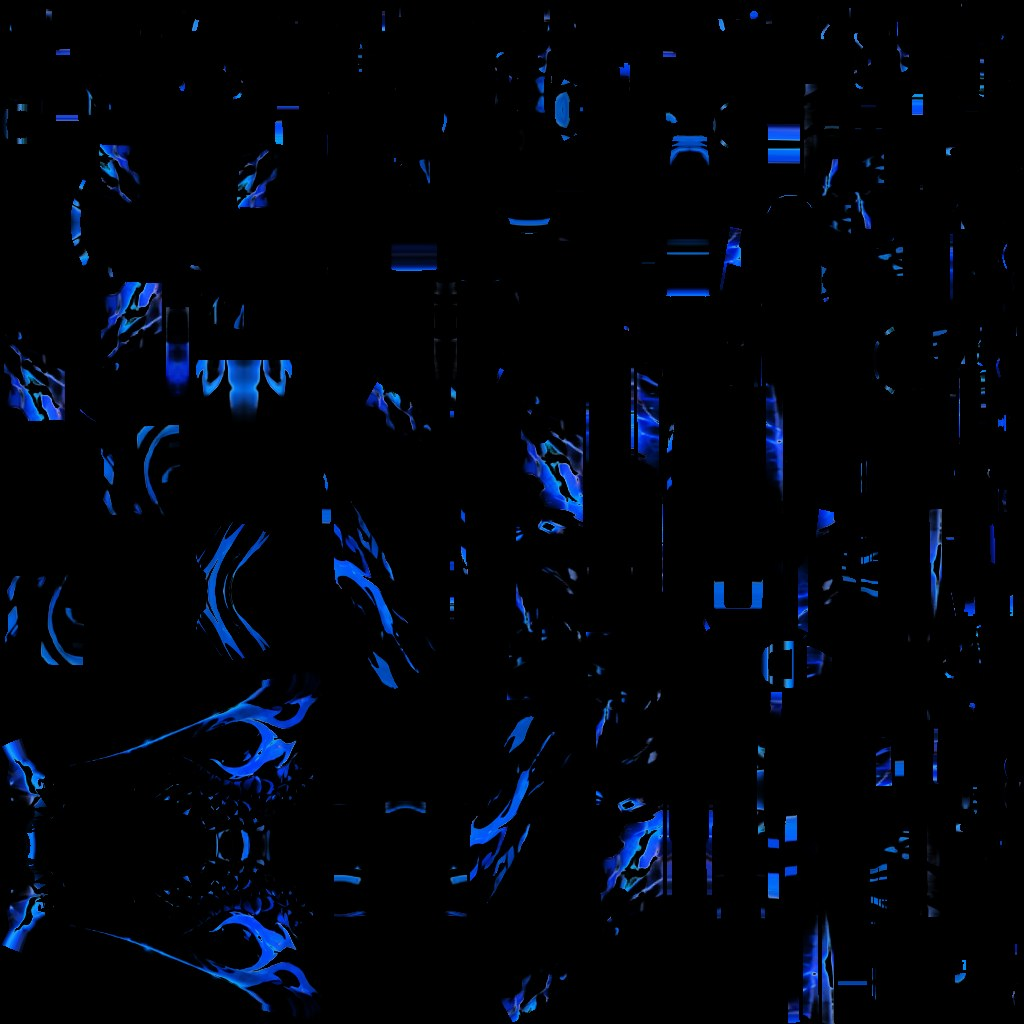
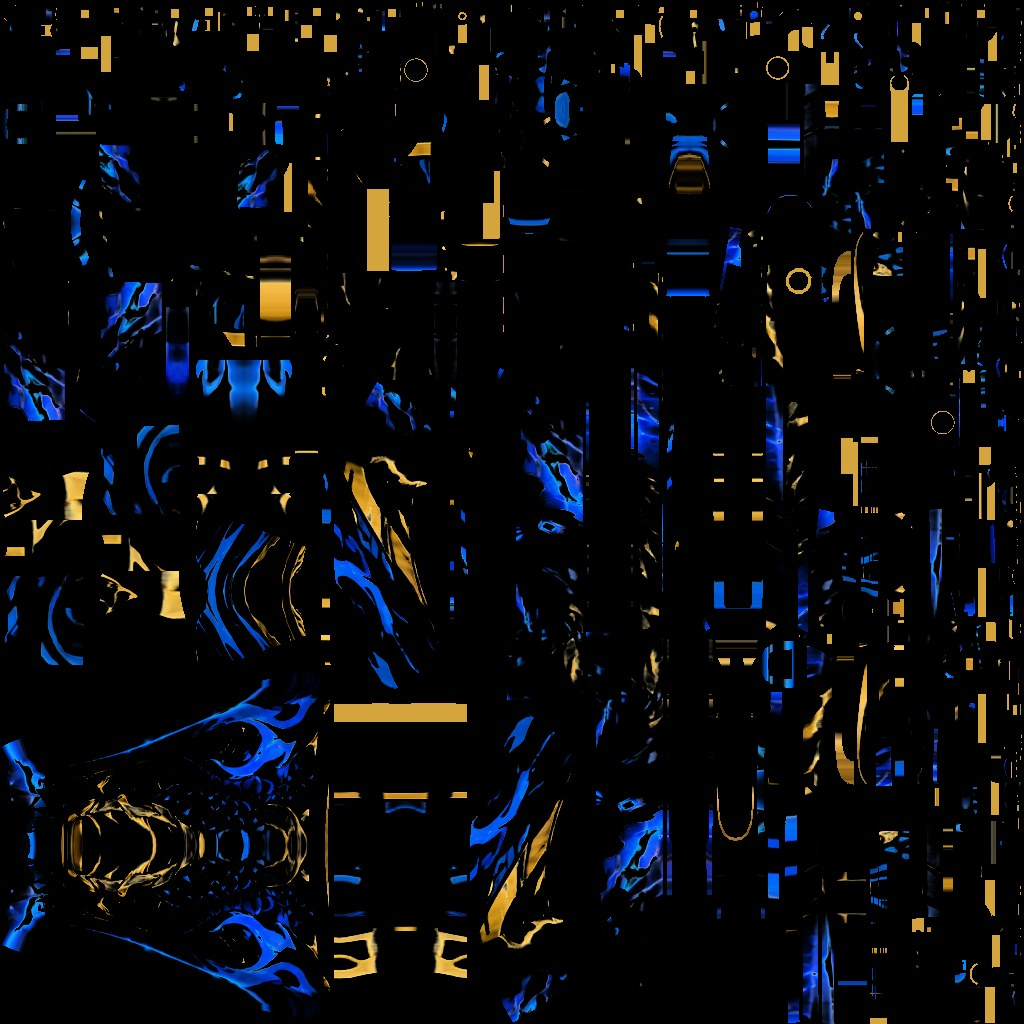
AK-47 Dragão Azul sem os raios; o dourado da pintura também brilha (mapa emissivo azul + dourado)
Claude-Session: https://claude.ai/code/session_012EZ5KKTFERXFdQTAkopxx1

diff --git a/tools/projetar_skin_arma.py b/tools/projetar_skin_arma.py
@@ -129,12 +129,21 @@ def main():
         def suave(a, b, x):
             k = np.clip((x - a) / (b - a), 0, 1)
             return k * k * (3 - 2 * k)
-        # o que acende: a cor forte da pintura ("cor": "azul" ou "vermelho"; o dourado não entra)
-        ch = {'vermelho': 0, 'verde': 1, 'azul': 2}[brilho.get('cor', 'azul')]
-        outros = [k for k in range(3) if k != ch]
-        azul = out[..., ch] - np.maximum(out[..., outros[0]], out[..., outros[1]])
+        # o que acende: as cores fortes da pintura ("cor": "azul", "vermelho" ou uma lista, ex.: ["azul", "dourado"])
+        cores = brilho.get('cor', 'azul')
+        cores = [cores] if isinstance(cores, str) else cores
         am = brilho.get('azul_min', 35)
-        mask = suave(am, am + 60, azul) * suave(70, 170, out[..., ch])
+        mask = np.zeros(out.shape[:2])
+        for nome in cores:
+            if nome == 'dourado':  # vermelho e verde altos, azul baixo
+                forca = np.minimum(out[..., 0], out[..., 1]) - out[..., 2]
+                m = suave(45, 105, forca) * suave(120, 200, out[..., 0])
+            else:
+                ch = {'vermelho': 0, 'verde': 1, 'azul': 2}[nome]
+                outros = [k for k in range(3) if k != ch]
+                forca = out[..., ch] - np.maximum(out[..., outros[0]], out[..., outros[1]])
+                m = suave(am, am + 60, forca) * suave(70, 170, out[..., ch])
+            mask = np.maximum(mask, m)
         emi = out * mask[..., None]
         base = os.path.splitext(saida)[0]
         Image.fromarray(np.clip(emi, 0, 255).astype(np.uint8)).save(base + '_emi.jpg', quality=88)
